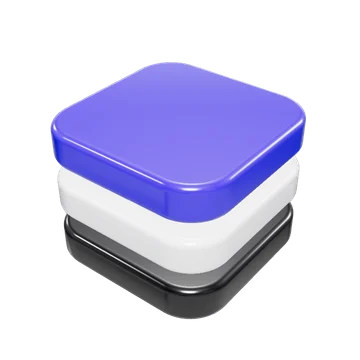
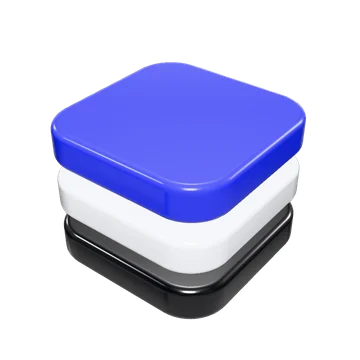
3D objects in the brand cobalt instead of violet
ACES filmic tone mapping shifted #2433F0 toward violet (rendered hue 242-246 deg, red above green). Neutral tone
mapping at exposure 1 keeps it at 237 deg (brand 236), matching the buttons and the ribbon; whites stay clean and
the black stones come closer to the ink color.

- Live renderer (stage.ts) and the poster pages (stones.html, pebble.html) switched together.
- Re-rendered posters: hero stones, four pebbles, ten icons (from the live objects), and og-image.jpg.

diff --git a/src/scripts/stage.ts b/src/scripts/stage.ts
@@ -5,7 +5,7 @@
 // the scroll), CSS clips them, and nothing is drawn while nothing moves or while a view is off screen.
 // The poster images stay in the HTML as the first paint and as the fallback when WebGL is unavailable.
 import {
-  ACESFilmicToneMapping, Group, PerspectiveCamera, PMREMGenerator, Quaternion, Scene, Vector3, WebGLRenderer,
+  Group, NeutralToneMapping, PerspectiveCamera, PMREMGenerator, Quaternion, Scene, Vector3, WebGLRenderer,
   type Mesh, type Object3D, type Texture,
 } from 'three';
 import { RoomEnvironment } from 'three/addons/environments/RoomEnvironment.js';
@@ -557,8 +557,9 @@ class Stage {
     this.renderer = new WebGLRenderer({ canvas: this.gl, antialias: true, alpha: true, powerPreference: 'high-performance' });
     this.renderer.setPixelRatio(1);
     this.renderer.setClearColor(0x000000, 0);
-    this.renderer.toneMapping = ACESFilmicToneMapping;
-    this.renderer.toneMappingExposure = 1.05;
+    // Neutral (Khronos PBR) tone mapping keeps the brand cobalt cobalt; ACES pushed it toward violet.
+    this.renderer.toneMapping = NeutralToneMapping;
+    this.renderer.toneMappingExposure = 1;
 
     this.io = new IntersectionObserver(
       (entries) => {

diff --git a/scripts/3d/pebble.html b/scripts/3d/pebble.html
@@ -13,7 +13,7 @@ const palettes = {
 const P = palettes[q.get('p') || 'cobalt'];
 const renderer = new THREE.WebGLRenderer({ canvas: document.getElementById('c'), antialias: true, alpha: true, preserveDrawingBuffer: true });
 renderer.setPixelRatio(1); renderer.setClearColor(0x000000, 0);
-renderer.toneMapping = THREE.ACESFilmicToneMapping; renderer.toneMappingExposure = 1.05;
+renderer.toneMapping = THREE.NeutralToneMapping; renderer.toneMappingExposure = 1;
 const scene = new THREE.Scene();
 const pm = new THREE.PMREMGenerator(renderer);
 scene.environment = pm.fromScene(new RoomEnvironment(), 0.04).texture;

diff --git a/scripts/3d/stones.html b/scripts/3d/stones.html
@@ -13,7 +13,7 @@ const palettes = {
 const P = palettes[q.get('p') || 'cobalt'];
 const renderer = new THREE.WebGLRenderer({ canvas: document.getElementById('c'), antialias: true, alpha: true, preserveDrawingBuffer: true });
 renderer.setPixelRatio(1); renderer.setClearColor(0x000000, 0);
-renderer.toneMapping = THREE.ACESFilmicToneMapping; renderer.toneMappingExposure = 1.05;
+renderer.toneMapping = THREE.NeutralToneMapping; renderer.toneMappingExposure = 1;
 const scene = new THREE.Scene();
 const pm = new THREE.PMREMGenerator(renderer);
 scene.environment = pm.fromScene(new RoomEnvironment(), 0.04).texture;

diff --git a/scripts/3d/README.md b/scripts/3d/README.md
@@ -5,6 +5,8 @@ The cobalt stones in the hero and the pebbles used as icons exist twice:
 - as WebP posters in `public/source/3d/` (rendered once with the scripts here). They are the first paint, the LCP image and the fallback when WebGL, scripts or motion are unavailable.
 - as live three.js objects (`src/scripts/stage.ts`, shapes in `src/lib/stones.ts`) that replace the posters after the page has loaded. The shapes come from the same generator and seeds, so the swap is invisible. Seeds: pebbles cobalt 3, cobalt2 9, white 11, black 5; hero stones seed 7.
 
+Tone mapping is `NeutralToneMapping` at exposure 1 everywhere (live renderer, `stones.html`, `pebble.html`). ACES, used before, shifted the brand cobalt #2433F0 toward violet; keep the three in sync or the posters and the live objects will differ in color.
+
 If you change the shapes in `src/lib/stones.ts`, change `stones.html` / `pebble.html` the same way and re-render the posters (`pebble.html?...&r=2.25` is the size used on the site).
 
 To re-render:
